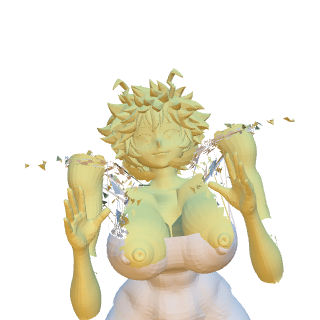
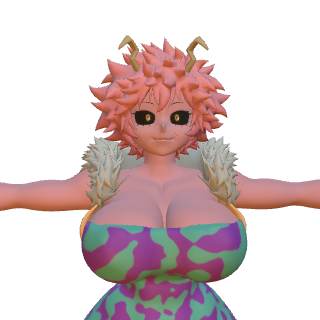
fix(ryusan): recapture select card from 521-joint fidelity model (Phase 3)
tools/portraits/capture.mjs → game/assets/portraits/ryusan.png (select path).
Manifest bones:521 framed:true. Multi-hit 1+2/u+3+4/f+3+4/b+1+2 and SHOW
intro/win left unmapped (no invent). Ranking + BUILD-LOG + proof updated.

diff --git a/docs/handoffs/ROSTER-CLOSEST-FIRST-2026-11-05.md b/docs/handoffs/ROSTER-CLOSEST-FIRST-2026-11-05.md
@@ -123,17 +123,19 @@ Local box search this pass: no copies of the SmutBase character blends under `/w
 - Never merge #1569 as a 52-bone Pond graft. Never touch arena sky/lighting/colors. Pages republish only after a real merged asset fix, under 1 GB.
 
 
-## Phase 3 start — Ryusan (closest)
+## Phase 3 — Ryusan (closest) — update 2026-11-05 12:31 CST
 
-**Started:** 2026-11-05 (this ranking PR). Not finished.
+**Card: DONE this pass.** Anims: finishable multi-hit/SHOW left **explicitly unmapped** (real multi-hit bake / body SHOW clips do not exist yet).
 
 | Axis | State | Remaining |
 |---|---|---|
-| Model / rig | Live `model-rerig.glb` = **521 joints** (blend 520 + neutral); fidelity renders in `docs/proof/2026-11-04/smutbase6-fidelity/ryusan-*` | None for bone-count bar. Do not re-strip. |
-| Character card | `game/assets/portraits/ryusan.png` present (90,289 B) but ROSTER-100 marks nearly all cards stale vs post-refit models | Re-run `tools/portraits/capture.mjs` for `ryusan` after confirming PreviewPane loads the 521-joint GLB; replace PNG only via that pipeline (320×320). |
-| Moveset data | `ryusan.json`: 211 moves, **211/211** `anim_ref` (`t7:luckychloe:…`); slots identity map complete; real T7 frame data (not proxy) | No donor fills. |
-| Animations | T7 Lucky Chloe bank landed (#1550): `game/assets/anim/t7/luckychloe/` + t3 generic bank; BASICS probe 9/10 + throw | Logged gaps from `docs/handoffs/SMUTBASE-T7-BANKS-2026-11-03.md`: **4 multi-hit clips** (one-clip-one-hit rule), resolver no-match rows, intro/win SHOW slots (no body-clip candidate). Fix only with real reverse-engineering-repo / T7 motion — never invent mappings. |
-| Probe residual | 10/10 damaging on confirmation probe (9 correct + throw) | Optional: sequenced-press probe for strings like `d/f+1,2`. |
+| Model / rig | Live `model-rerig.glb` = **521 joints** | None for bone-count bar. **Ops:** B2 remote still serves stale ~2.1 MB / ~73-bone copy — re-upload from main before live Pages shows the fidelity model. |
[1 lines of base64/hex data omitted]
+| Moveset data | 211/211 `anim_ref` | No donor fills. |
+| Animations | Pack has 27 moves / 25 clips | **UNMAPPED by name (no invent):** pack skips `1+2`, `u+3+4`, `f+3+4`, `b+1+2` (one-clip-one-hit). SHOW `intro`/`win` (`t3_stance.json` / `t3_win_rp.json`) — no body-clip in motbin. Sequenced-press probe = tooling follow-up. |
+| Probe residual | 9/10 + throw | Sequenced-press probe still owed. |
 
-**Blocked without new GRE data:** inventing the 4 multi-hit clip splits or SHOW intro/win. **Not blocked:** portrait recapture (tooling exists).
+**Ryusan not 100% complete** (4 multi-hit + SHOW + stance-fit + B2 refresh). Closest-for-next-finishable after card: still polish Ryusan anims when GRE multi-hit bake exists; else start **Aotsuki** / **Awapop** model+card+moveset pass.
+
+**Do not merge #1569** (52-bone Pond graft).
 

diff --git a/docs/BUILD-LOG.md b/docs/BUILD-LOG.md
@@ -2,6 +2,15 @@
 
 Lane ownership is claimed on #866. MoneyManBusch owns: Pantera and the core-8 chat-owned animation wiring, the Tekken 7 bank extraction (`tools/anim/t7_*`), OpenKumite/FE adoption, moveset-template inventory, and the PR queue. Muse owns #1096 and its stack, the moves audit, and `tools/auto_rig`.
 
+## 2026-11-05 — Ryusan Phase 3: card recapture + anim gaps named-unmapped (MoneyManBusch / Grok) (t377u/t378u)
+
[1 lines of base64/hex data omitted]
+- **Capture note:** B2 remote still hosts a stale ~2.1 MB / ~73-bone `model-rerig.glb`; capture forced local 521-joint file via temporary `remoteBase` placeholder (not committed). **Re-upload B2 from main** so live Pages loads fidelity model.
+- **Stance:** luckychloe bank stance fails fit on 521-bone rig (Left shoulder ~1.23 rad) — card is bind/aim framed, not invented pose.
+- **Anims LEFT UNMAPPED (no invent):** pack skips `1+2`, `u+3+4`, `f+3+4`, `b+1+2` (one-clip-one-hit); SHOW `intro`/`win` (`t3_stance.json`/`t3_win_rp.json`) — no body-clip in motbin. Sequenced-press probe = tooling follow-up.
+- **Re-rank:** Ryusan card axis closed; not 100% (multi-hit/SHOW/stance-fit/B2). Next finishable: Aotsuki/Awapop when anim GRE is blocked — or multi-hit bake when real T7 rows exist.
+- **Do not:** merge #1569; invent True Ogre for Chatur; touch arena sky/lighting/colors; Muse #1096 / auto_rig; #1566.
+
 ## 2026-11-05 — Roster closest-first ranking + SmutBase 6 bone verify (MoneyManBusch / Grok) (t377u/t378u)
 
 - **Owner supersede:** fix model → card → moveset → animations by **closest-to-done first**. SmutBase 6 need full blend armatures (not 48/52 conversions). Pantera still not 100% (55 r17 `Kg_*`).
